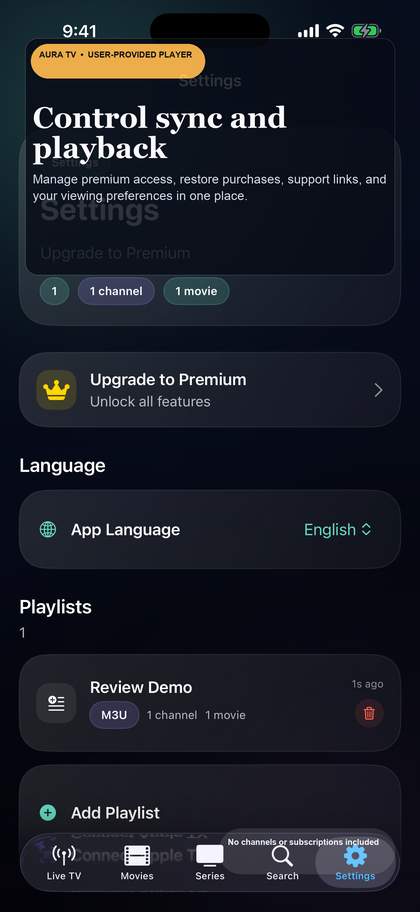
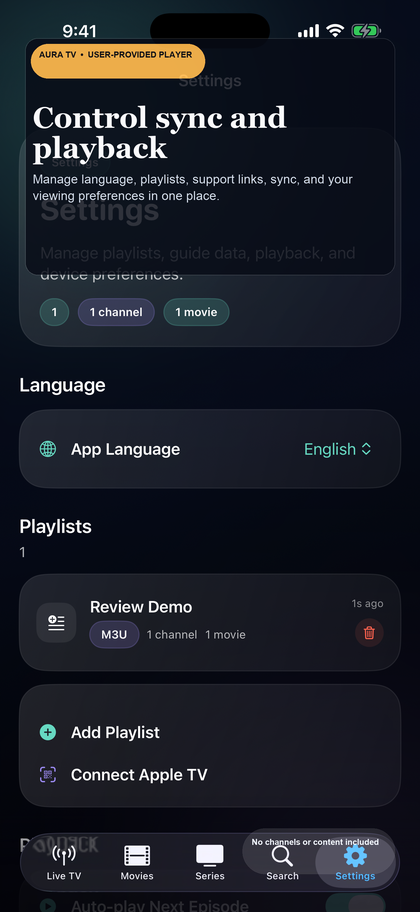
Clean public site review packet

diff --git a/index.html b/index.html
@@ -11,7 +11,7 @@
     <meta property="og:title" content="Aura TV — IPTV Player for Your Own Playlists">
     <meta
         property="og:description"
-        content="Import your own M3U playlists, Xtream-compatible credentials, and guide data. Aura TV does not include channels or content subscriptions."
+        content="Import your own M3U playlists, Xtream-compatible credentials, and guide data. Aura TV does not include channels or content access."
     >
     <meta property="og:type" content="website">
     <meta property="og:url" content="https://eliran-mesika.github.io/auratv-site/">
@@ -572,7 +572,7 @@
                         Import M3U or Xtream-compatible sources, browse live channels, movies, and series, and keep your library organized across your Apple devices.
                     </p>
                     <p class="hero-note">
-                        Aura TV does not include channels, media catalogs, broadcaster accounts, or content subscriptions.
+                        Aura TV does not include channels, media catalogs, broadcaster accounts, or content access.
                         Users are responsible for the sources, guide feeds, artwork, and media they choose to add.
                     </p>
                     <div class="hero-actions">
@@ -591,14 +591,14 @@
                 </div>
 
                 <aside class="pricing-card">
-                    <div class="pricing-label">Premium access</div>
-                    <div class="pricing-price">Annual plan</div>
+                    <div class="pricing-label">Review-ready build</div>
+                    <div class="pricing-price">Free-first release</div>
                     <p class="pricing-copy">
-                        Premium access is offered as an annual auto-renewable subscription billed by Apple.
-                        Any current price or introductory offer appears in the App Store purchase sheet before confirmation.
+                        This first App Store submission focuses on the player, safe demo, and user-provided import flow.
+                        No gated App Store product unlocks are enabled or advertised in this build.
                     </p>
                     <div class="pricing-list">
-                        <div><strong>Player-only product.</strong> Aura TV does not provide channels, catalogs, or subscriptions of its own.</div>
+                        <div><strong>Player-only product.</strong> Aura TV does not provide channels, catalogs, or content access of its own.</div>
                         <div><strong>Review-safe demo.</strong> First launch includes a neutral sample library for App Review and user onboarding.</div>
                         <div><strong>Publisher.</strong> Eliran Mesika</div>
                         <div><strong>Support contact.</strong> <a href="mailto:mesikaeliran@gmail.com">mesikaeliran@gmail.com</a></div>
@@ -673,8 +673,8 @@
                         <img src="./assets/raw-06.png" alt="Aura TV settings screen">
                     </div>
                     <div class="shot-label">Settings</div>
-                    <div class="shot-title">Control sync, playback, and premium</div>
-                    <div class="shot-copy">Manage playlists, restore purchases, open support and privacy links, and keep device preferences in one place.</div>
+                    <div class="shot-title">Control sync and playback</div>
+                    <div class="shot-copy">Manage playlists, language, support and privacy links, and device preferences in one place.</div>
                 </article>
             </div>
         </section>
@@ -698,8 +698,8 @@
                     <p>M3U playlist URLs, M3U files, Xtream-compatible credentials, and guide data such as XMLTV or EPG when the source provides it.</p>
                 </article>
                 <article class="faq-card">
-                    <h3>How does the subscription work?</h3>
-                    <p>Premium access is offered as an annual auto-renewable subscription billed by Apple. Any current price or introductory offer appears in the App Store purchase sheet, and you can cancel or manage it in your App Store account settings.</p>
+                    <h3>Are player features gated in this release?</h3>
+                    <p>No. This first-release build is submitted as a free-first player experience. App Review can use the built-in safe demo or import reviewer-provided source data.</p>
                 </article>
                 <article class="faq-card">
                     <h3>What data syncs through iCloud?</h3>
@@ -723,7 +723,7 @@
                 </article>
                 <article class="policy-card">
                     <h3>Privacy and terms</h3>
-                    <p>Read how Aura TV handles playlist data, iCloud sync, purchases, and user responsibility.</p>
+                    <p>Read how Aura TV handles playlist data, iCloud sync, and user responsibility.</p>
                     <p><a href="./privacy/">Privacy Policy</a> · <a href="./terms/">Terms of Use</a></p>
                 </article>
             </div>

diff --git a/privacy/index.html b/privacy/index.html
@@ -48,7 +48,7 @@
     <div class="panel">
         <p>
             Aura TV is a player for user-provided playlists and source credentials. It does not include channels, broadcaster accounts,
-            or a first-party content catalog. This policy explains how the app handles information needed for playback, library continuity, purchases, and optional Apple-service integration.
+            or a first-party content catalog. This policy explains how the app handles information needed for playback, library continuity, and optional Apple-service integration.
         </p>
     </div>
 
@@ -58,11 +58,10 @@
         <li>Favorites, watch history, continue-watching state, recent searches, and preferences used inside the app</li>
         <li>Optional camera access when you choose to scan a QR code</li>
         <li>Optional local-network access when you choose QR-based transfer between your own devices</li>
-        <li>Subscription status provided by Apple for premium access</li>
     </ul>
 
     <h2>How data is used</h2>
-    <p>The app uses the information above only to import your sources, organize your library, enable playback, restore premium access, and support optional transfer or sync features.</p>
+    <p>The app uses the information above only to import your sources, organize your library, enable playback, and support optional transfer or sync features.</p>
     <p>Aura TV does not require a first-party account for its core playback flow.</p>
 
     <h2>Storage and security</h2>
@@ -74,15 +73,12 @@
 
     <h2>iCloud and Apple services</h2>
     <p>
-        Aura TV uses Apple system services such as StoreKit for subscriptions and may use iCloud / CloudKit for playlist metadata,
+        Aura TV may use iCloud / CloudKit for playlist metadata,
         favorites, watch history, and preferences across your Apple devices. If you disable iCloud on the device, sync-related behavior may change.
     </p>
 
     <h2>Sharing and tracking</h2>
     <p>We do not sell your personal data, and the audited codebase used for this submission package does not include third-party advertising SDKs or third-party analytics SDKs.</p>
-
-    <h2>Payments</h2>
-    <p>Subscriptions and payments are handled by Apple through the App Store. We do not receive your Apple ID password or full payment card details.</p>
 
     <h2>Contact</h2>
     <p>Privacy questions about Aura TV by Eliran Mesika can be sent to <a href="mailto:mesikaeliran@gmail.com">mesikaeliran@gmail.com</a>.</p>

diff --git a/support/index.html b/support/index.html
@@ -52,7 +52,7 @@
         <p><strong>Response time:</strong> We aim to respond within 2 business days.</p>
         <p><strong>Supported devices:</strong> iPhone and iPad running iOS / iPadOS 17 or later.</p>
         <p><strong>Account required:</strong> No first-party Aura TV account is required.</p>
-        <p><strong>Subscription management:</strong> Managed by Apple in your App Store account settings.</p>
+        <p><strong>Review flow:</strong> No first-party account is required; the built-in safe demo can be opened on first launch.</p>
     </div>
 
     <h2>What the app helps with</h2>
@@ -68,7 +68,6 @@
         <li><strong>Source import fails:</strong> confirm the playlist URL, file, host, username, and password are valid and authorized.</li>
         <li><strong>Guide data is missing:</strong> make sure the source includes an EPG or XMLTV feed and that the guide URL is reachable.</li>
         <li><strong>Playback does not start:</strong> check the stream URL from your provider and make sure the device still has network access.</li>
-        <li><strong>Restore purchases:</strong> open Settings in Aura TV and tap <strong>Restore Purchases</strong>.</li>
         <li><strong>iCloud sync:</strong> verify iCloud is enabled on the device if you expect playlists or history to appear across your own Apple devices.</li>
     </ul>
 
@@ -80,7 +79,7 @@
     </ul>
 
     <h2>Legal</h2>
-    <p>Aura TV is a player for user-provided sources. It does not provide channels, catalogs, or subscriptions of its own. Read the <a href="../privacy/">Privacy Policy</a> and <a href="../terms/">Terms of Use</a>.</p>
+    <p>Aura TV is a player for user-provided sources. It does not provide channels, catalogs, or content access of its own. Read the <a href="../privacy/">Privacy Policy</a> and <a href="../terms/">Terms of Use</a>.</p>
     <p>For rights, abuse, or legal questions related to Aura TV itself, use the same support email and include the relevant context in your message.</p>
 </body>
 </html>

diff --git a/terms/index.html b/terms/index.html
@@ -48,19 +48,12 @@
     <div class="panel">
         <p>
             Aura TV is a software player. It does not provide channels, playlists, broadcasters, sports packages, movie catalogs,
-            or other media subscriptions. By downloading or using Aura TV, you agree to these Terms of Use.
+            or other content access. By downloading or using Aura TV, you agree to these Terms of Use.
         </p>
     </div>
 
     <h2>Player-only service</h2>
     <p>The app is intended to open playlists, credentials, and guide feeds that you add yourself from sources you are authorized to use.</p>
-
-    <h2>Subscriptions</h2>
-    <p>
-        Premium access may be offered as an annual auto-renewable subscription billed by Apple.
-        Any current price, introductory offer, and renewal terms appear in the App Store purchase sheet before confirmation.
-    </p>
-    <p>You can manage or cancel your subscription in your App Store account settings.</p>
 
     <h2>User responsibility</h2>
     <ul>

diff --git a/README.md b/README.md
@@ -14,7 +14,7 @@ Static GitHub Pages site for the public Aura TV App Store URLs.
 - Apple ID: `6762010608`
 - Publisher: `Eliran Mesika`
 - Public support contact: `mesikaeliran@gmail.com`
-- Subscription model: annual auto-renewable subscription; only mention an introductory offer if it is actually configured live in App Store Connect
+- First-release model: free-first player submission with no gated App Store product unlocks exposed
 - The support, privacy, and terms pages should keep the same player-only language and public contact identity used in App Store Connect.
 
 ## Publish
